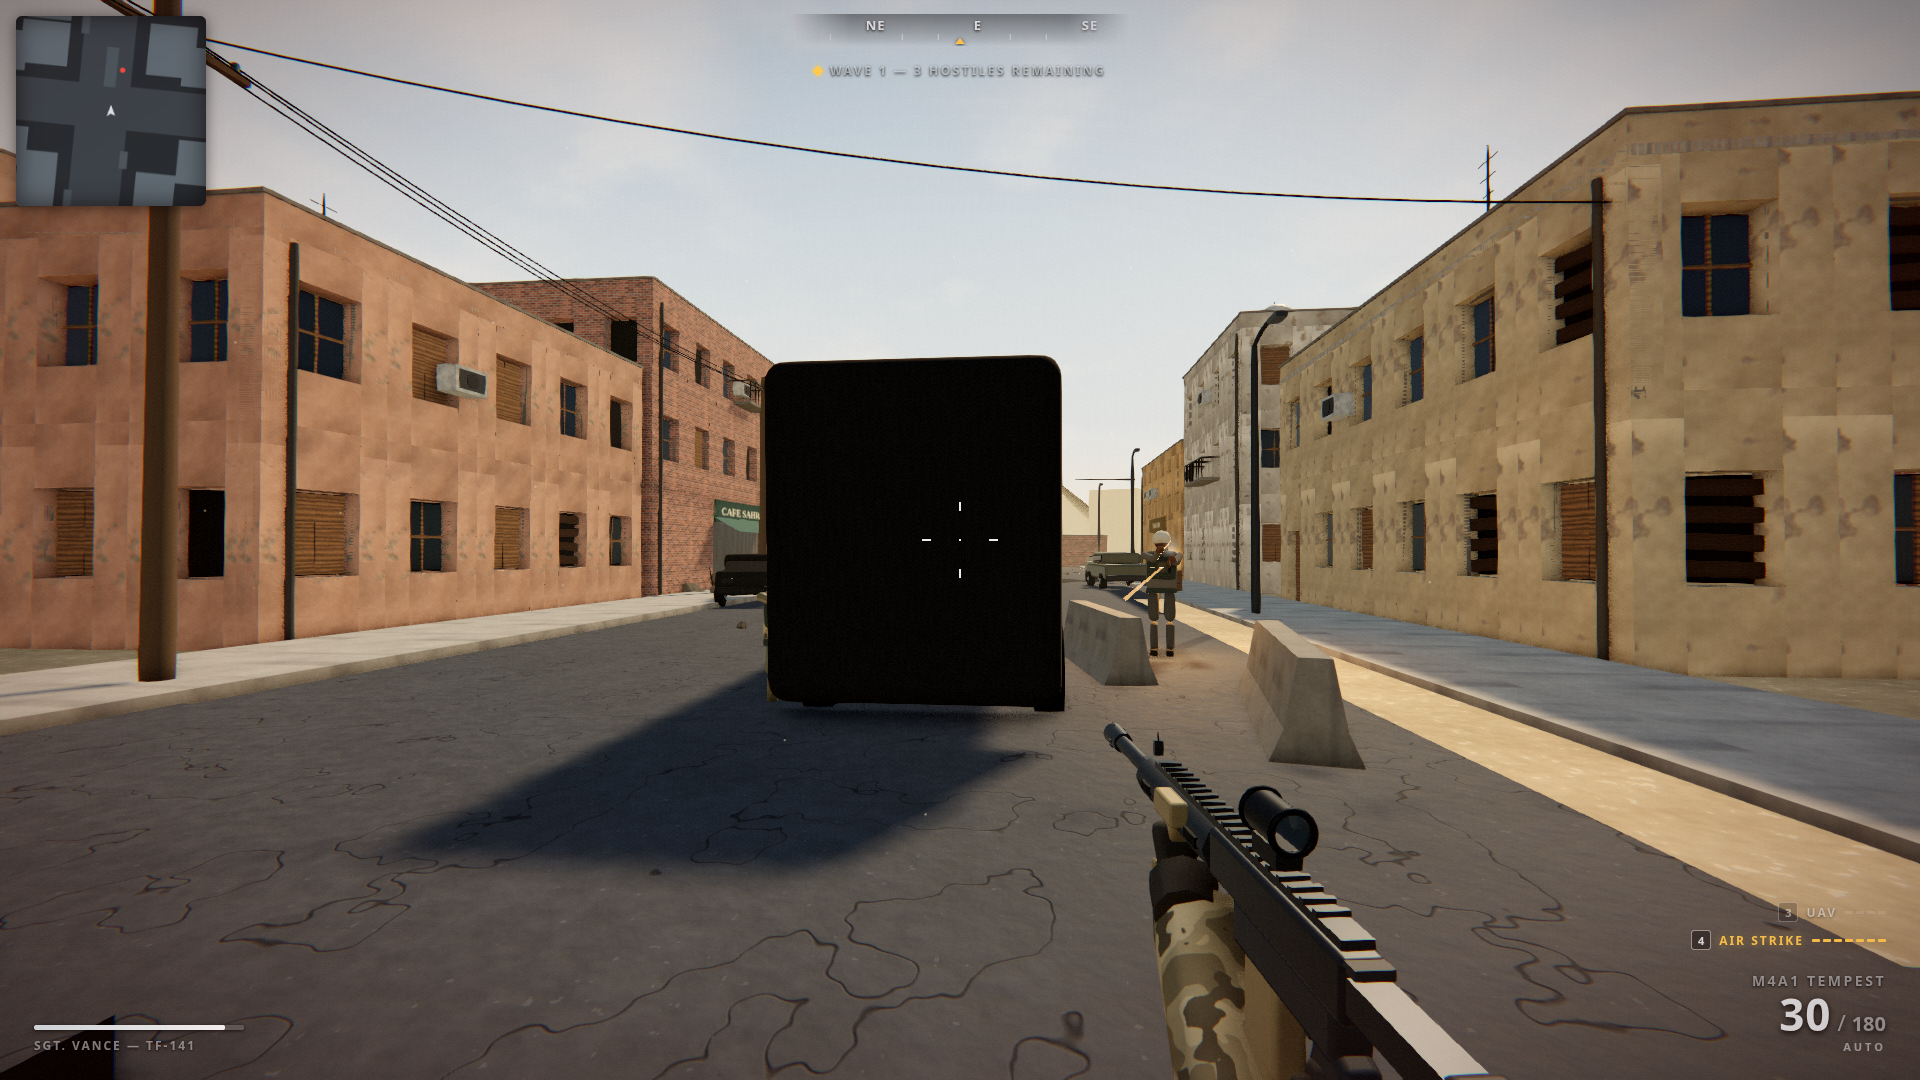
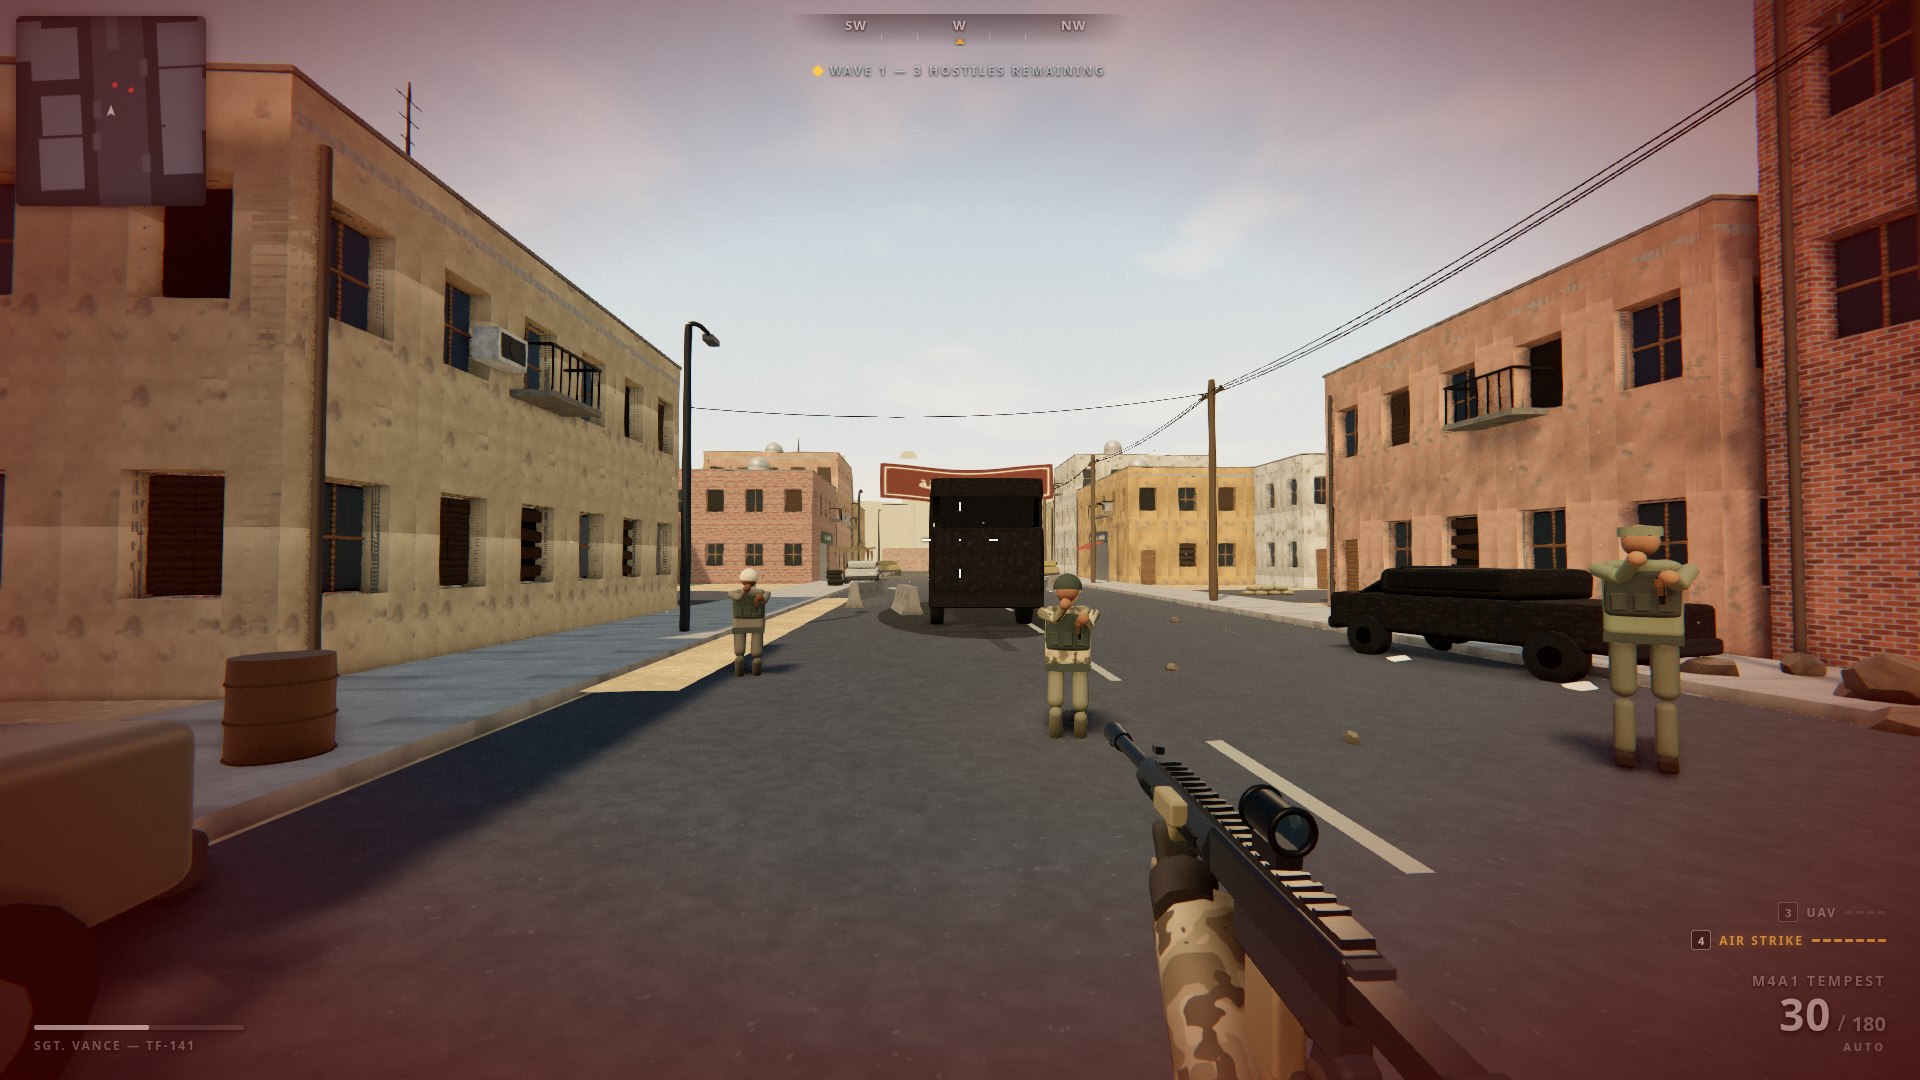
Polish pass: soldier proportions, burned-vehicle materials, contact shadows, UV variety, photo staging

diff --git a/src/ai/enemies.js b/src/ai/enemies.js
@@ -29,72 +29,96 @@ function buildSoldier(variant = 0) {
   torsoPivot.position.y = 1.02;
   root.add(torsoPivot);
 
-  const torso = new THREE.Mesh(new RoundedBoxGeometry(0.42, 0.56, 0.26, 2, 0.06), cloth);
+  const torso = new THREE.Mesh(new RoundedBoxGeometry(0.46, 0.56, 0.27, 2, 0.07), cloth);
   torso.position.y = 0.28;
   torsoPivot.add(torso);
-  // Chest rig / vest
-  const vest = new THREE.Mesh(new RoundedBoxGeometry(0.4, 0.34, 0.32, 2, 0.05), gear);
-  vest.position.y = 0.32;
+  // Shoulder bulk
+  for (const s of [-1, 1]) {
+    const pad = new THREE.Mesh(new RoundedBoxGeometry(0.14, 0.12, 0.24, 2, 0.04), cloth);
+    pad.position.set(s * 0.235, 0.5, 0);
+    torsoPivot.add(pad);
+  }
+  // Chest rig / vest with plate
+  const vest = new THREE.Mesh(new RoundedBoxGeometry(0.42, 0.38, 0.34, 2, 0.06), gear);
+  vest.position.y = 0.3;
   torsoPivot.add(vest);
   for (let i = 0; i < 3; i++) {
-    const pouch = new THREE.Mesh(new RoundedBoxGeometry(0.09, 0.13, 0.05, 1, 0.015), gear);
-    pouch.position.set(-0.12 + i * 0.12, 0.26, 0.18);
+    const pouch = new THREE.Mesh(new RoundedBoxGeometry(0.1, 0.14, 0.06, 1, 0.02), gear);
+    pouch.position.set(-0.13 + i * 0.13, 0.24, 0.195);
     torsoPivot.add(pouch);
   }
-  // Belt
-  const belt = new THREE.Mesh(new THREE.BoxGeometry(0.42, 0.07, 0.28), gear);
+  // Belt + canteen
+  const belt = new THREE.Mesh(new THREE.BoxGeometry(0.44, 0.08, 0.3), gear);
   belt.position.y = 0.0;
   torsoPivot.add(belt);
+  const canteen = new THREE.Mesh(new RoundedBoxGeometry(0.1, 0.14, 0.08, 1, 0.03), gear);
+  canteen.position.set(-0.2, -0.06, -0.1);
+  torsoPivot.add(canteen);
 
-  // -- head
+  // -- head (slightly oversized reads better at game distances)
   const headPivot = new THREE.Group();
-  headPivot.position.y = 0.6;
+  headPivot.position.y = 0.62;
   torsoPivot.add(headPivot);
-  const head = new THREE.Mesh(new THREE.SphereGeometry(0.115, 14, 12), skin);
-  head.position.y = 0.1;
-  head.scale.set(0.92, 1.05, 0.98);
+  const head = new THREE.Mesh(new THREE.SphereGeometry(0.13, 14, 12), skin);
+  head.position.y = 0.11;
+  head.scale.set(0.9, 1.08, 0.96);
   headPivot.add(head);
+  // Neck
+  const neck = new THREE.Mesh(new THREE.CylinderGeometry(0.06, 0.07, 0.08, 8), skin);
+  neck.position.y = 0.0;
+  headPivot.add(neck);
   if (variant % 3 === 0) {
-    // Helmet
-    const helm = new THREE.Mesh(new THREE.SphereGeometry(0.135, 14, 10, 0, Math.PI * 2, 0, Math.PI * 0.55), gear);
+    // Combat helmet with rim + strap
+    const helm = new THREE.Mesh(new THREE.SphereGeometry(0.155, 14, 10, 0, Math.PI * 2, 0, Math.PI * 0.52), gear);
     helm.position.y = 0.13;
+    helm.scale.set(1, 0.92, 1.05);
     headPivot.add(helm);
+    const rim = new THREE.Mesh(new THREE.TorusGeometry(0.148, 0.014, 6, 16), gear);
+    rim.rotation.x = Math.PI / 2;
+    rim.position.y = 0.135;
+    headPivot.add(rim);
+    const strap = new THREE.Mesh(new THREE.BoxGeometry(0.02, 0.14, 0.02), gear);
+    strap.position.set(0.115, 0.05, 0.02);
+    headPivot.add(strap);
   } else if (variant % 3 === 1) {
-    // Keffiyeh wrap
+    // Keffiyeh wrap + face scarf
     const wrapMat = new THREE.MeshStandardMaterial({ color: 0xb9ac92, roughness: 1 });
-    const wrap = new THREE.Mesh(new THREE.SphereGeometry(0.128, 12, 10, 0, Math.PI * 2, 0, Math.PI * 0.62), wrapMat);
+    const wrap = new THREE.Mesh(new THREE.SphereGeometry(0.145, 12, 10, 0, Math.PI * 2, 0, Math.PI * 0.62), wrapMat);
     wrap.position.y = 0.12;
     headPivot.add(wrap);
-    const tail = new THREE.Mesh(new THREE.BoxGeometry(0.1, 0.22, 0.03), wrapMat);
-    tail.position.set(0.04, -0.02, -0.12);
+    const scarf = new THREE.Mesh(new THREE.SphereGeometry(0.12, 10, 8, 0, Math.PI * 2, Math.PI * 0.5, Math.PI * 0.34), wrapMat);
+    scarf.position.set(0, 0.1, 0.03);
+    headPivot.add(scarf);
+    const tail = new THREE.Mesh(new THREE.BoxGeometry(0.11, 0.26, 0.03), wrapMat);
+    tail.position.set(0.05, -0.04, -0.13);
     tail.rotation.x = 0.25;
     headPivot.add(tail);
   } else {
     // Field cap
-    const cap = new THREE.Mesh(new THREE.CylinderGeometry(0.12, 0.125, 0.07, 12), cloth);
-    cap.position.y = 0.17;
+    const cap = new THREE.Mesh(new THREE.CylinderGeometry(0.13, 0.138, 0.08, 12), cloth);
+    cap.position.y = 0.19;
     headPivot.add(cap);
-    const brim = new THREE.Mesh(new THREE.BoxGeometry(0.12, 0.015, 0.09), cloth);
-    brim.position.set(0, 0.145, 0.14);
+    const brim = new THREE.Mesh(new THREE.BoxGeometry(0.13, 0.018, 0.1), cloth);
+    brim.position.set(0, 0.16, 0.16);
     headPivot.add(brim);
   }
 
-  // -- arms (posed holding rifle)
+  // -- arms (posed holding rifle, thicker so they read from the front)
   const mkArm = (side) => {
     const shoulder = new THREE.Group();
-    shoulder.position.set(side * 0.25, 0.5, 0);
+    shoulder.position.set(side * 0.27, 0.48, 0.02);
     torsoPivot.add(shoulder);
-    const upper = new THREE.Mesh(new THREE.CapsuleGeometry(0.055, 0.2, 4, 8), cloth);
+    const upper = new THREE.Mesh(new THREE.CapsuleGeometry(0.065, 0.2, 4, 8), cloth);
     upper.position.y = -0.14;
     shoulder.add(upper);
     const elbow = new THREE.Group();
-    elbow.position.y = -0.28;
+    elbow.position.y = -0.29;
     shoulder.add(elbow);
-    const fore = new THREE.Mesh(new THREE.CapsuleGeometry(0.045, 0.18, 4, 8), cloth);
-    fore.position.y = -0.12;
+    const fore = new THREE.Mesh(new THREE.CapsuleGeometry(0.052, 0.19, 4, 8), cloth);
+    fore.position.y = -0.13;
     elbow.add(fore);
-    const hand = new THREE.Mesh(new THREE.SphereGeometry(0.055, 8, 6), skin);
-    hand.position.y = -0.24;
+    const hand = new THREE.Mesh(new THREE.SphereGeometry(0.06, 8, 6), skin);
+    hand.position.y = -0.26;
     elbow.add(hand);
     return { shoulder, elbow };
   };
@@ -123,20 +147,21 @@ function buildSoldier(variant = 0) {
   const legR = mkLeg(1);
   const legL = mkLeg(-1);
 
-  // -- rifle in aim pose
+  // -- rifle in aim pose (slightly oversized so it reads at distance)
   const rifle = buildEnemyRifle();
-  rifle.position.set(0.1, 0.42, 0.32);
-  rifle.rotation.y = -0.06;
+  rifle.scale.setScalar(1.18);
+  rifle.position.set(0.09, 0.42, 0.34);
+  rifle.rotation.y = -0.08;
   torsoPivot.add(rifle);
   const muzzle = new THREE.Object3D();
   muzzle.position.set(0, 0.012, -0.52);
   rifle.add(muzzle);
 
   // Pose arms onto the rifle
-  armR.shoulder.rotation.x = -1.15; armR.shoulder.rotation.z = -0.25;
-  armR.elbow.rotation.x = -0.65;
-  armL.shoulder.rotation.x = -1.3; armL.shoulder.rotation.z = 0.55;
-  armL.elbow.rotation.x = -0.85;
+  armR.shoulder.rotation.x = -1.05; armR.shoulder.rotation.z = -0.35;
+  armR.elbow.rotation.x = -0.72;
+  armL.shoulder.rotation.x = -1.25; armL.shoulder.rotation.z = 0.6;
+  armL.elbow.rotation.x = -0.9;
 
   root.traverse((o) => { if (o.isMesh) { o.castShadow = true; o.receiveShadow = false; } });
 

diff --git a/src/world/buildings.js b/src/world/buildings.js
@@ -43,7 +43,10 @@ function collProxy(group, x, y, z, sx, sy, sz) {
 }
 
 class GeoBucket {
-  constructor() { this.map = new Map(); }
+  constructor(uvOffset = [0, 0]) {
+    this.map = new Map();
+    this.uvOffset = uvOffset;
+  }
   add(mat, geo, x, y, z, ry = 0, rx = 0, rz = 0) {
     const g = geo.clone();
     if (rx) g.rotateX(rx);
@@ -56,7 +59,14 @@ class GeoBucket {
   box(mat, x, y, z, sx, sy, sz, ry = 0) {
     const geo = new THREE.BoxGeometry(sx, sy, sz);
     const k = uvScaleFor(mat);
-    if (k) scaleBoxUVs(geo, sx, sy, sz, k[0], k[1]);
+    if (k) {
+      scaleBoxUVs(geo, sx, sy, sz, k[0], k[1]);
+      // Per-building random UV offset breaks visible tiling repetition
+      const uv = geo.attributes.uv;
+      for (let i = 0; i < uv.count; i++) {
+        uv.setXY(i, uv.getX(i) + this.uvOffset[0], uv.getY(i) + this.uvOffset[1]);
+      }
+    }
     this.add(mat, geo, x, y, z, ry);
   }
   build(group) {
@@ -88,13 +98,14 @@ export function buildBuilding(opts = {}) {
   const H = GROUND_H + (stories - 1) * STORY_H;
 
   const group = new THREE.Group();
-  const B = new GeoBucket();
+  const uvOff = [r() * 7, r() * 7];
+  const B = new GeoBucket(uvOff);
   const wallT = 0.4;
 
   /* Facade builder for one side. Writes untransformed geometry into `sub`;
      the placement wrapper rotates/translates it into position. */
   const facade = (faceW, hasStorefront) => {
-    const sub = new GeoBucket();
+    const sub = new GeoBucket(uvOff);
     const winW = 1.15, winH = 1.5;
     const bays = Math.max(1, Math.round(faceW / 2.35));
     const bayW = faceW / bays;
@@ -133,16 +144,16 @@ export function buildBuilding(opts = {}) {
           // Window: recessed interior + glass + frame + sill
           const state = r();
           sub.box(lib.darkInterior, bx, sillY + winH / 2, -0.16, winW - 0.06, winH - 0.06, 0.02);
-          if (state < 0.45) {
+          if (state < 0.62) {
             sub.box(lib.glassWindow, bx, sillY + winH / 2, -0.12, winW - 0.14, winH - 0.14, 0.02);
             // Cross mullion
             sub.box(lib.wood, bx, sillY + winH / 2, -0.1, winW - 0.1, 0.05, 0.04);
             sub.box(lib.wood, bx, sillY + winH / 2, -0.1, 0.05, winH - 0.1, 0.04);
-          } else if (state < 0.75) {
+          } else if (state < 0.82) {
             // Closed wooden shutters
-            sub.box(lib.wood, bx - winW / 4 + 0.02, sillY + winH / 2, -0.08, winW / 2 - 0.05, winH - 0.1, 0.04);
-            sub.box(lib.wood, bx + winW / 4 - 0.02, sillY + winH / 2, -0.08, winW / 2 - 0.05, winH - 0.1, 0.04);
-          } else if (state < 0.88) {
+            sub.box(lib.woodDark, bx - winW / 4 + 0.02, sillY + winH / 2, -0.08, winW / 2 - 0.05, winH - 0.1, 0.04);
+            sub.box(lib.woodDark, bx + winW / 4 - 0.02, sillY + winH / 2, -0.08, winW / 2 - 0.05, winH - 0.1, 0.04);
+          } else if (state < 0.92) {
             // Boarded planks
             for (let p = 0; p < 4; p++) {
               sub.add(lib.woodDark, new THREE.BoxGeometry(winW + 0.15, 0.22, 0.04),

diff --git a/src/photo/photomode.js b/src/photo/photomode.js
@@ -76,16 +76,16 @@ const SCENARIOS = {
     };
   },
 
-  /* Air strike from a closer angle, strike line on the north road. */
+  /* Air strike sweeping across the street, viewed from the market sidewalk. */
   airstrike2: (g) => {
     g.deployForPhoto();
-    g.player.spawnAt(new THREE.Vector3(-2, 0, 7.5), -0.95);
-    g.player.pitch = 0.2;
+    g.player.spawnAt(new THREE.Vector3(-22, 0, 6.4), -Math.PI / 2 + 0.22);
+    g.player.pitch = 0.12;
     g.enemies.frozen = true;
     return {
       capture: 360,
       onFrame: (f) => {
-        if (f === 30) g.airstrike.confirmTarget(new THREE.Vector3(22, 0, -13));
+        if (f === 30) g.airstrike.confirmTarget(new THREE.Vector3(4, 0, -1));
       },
     };
   },
@@ -93,15 +93,20 @@ const SCENARIOS = {
   /* Soldier close-up for character review (sun on their faces). */
   enemies: (g) => {
     g.deployForPhoto();
-    g.player.spawnAt(new THREE.Vector3(19, 0, 4.2), Math.PI / 2 - 0.14);
-    g.player.pitch = 0.01;
+    g.player.spawnAt(new THREE.Vector3(30.5, 0, 2.5), Math.PI / 2 - 0.05);
+    g.player.pitch = 0.005;
     g.enemies.frozen = true;
-    const a = g.enemies.spawnOne(new THREE.Vector3(8, 0, -0.5), 0);
-    const b = g.enemies.spawnOne(new THREE.Vector3(4.5, 0, 3.4), 1);
-    const c = g.enemies.spawnOne(new THREE.Vector3(11.5, 0, 4.2), 2);
+    const a = g.enemies.spawnOne(new THREE.Vector3(24, 0, 1.2), 0);
+    const b = g.enemies.spawnOne(new THREE.Vector3(20.5, 0, 5), 1);
+    const c = g.enemies.spawnOne(new THREE.Vector3(25.5, 0, -2.8), 2);
     a.enterCombat(); b.enterCombat(); c.enterCombat();
     b.crouchTarget = 1;
-    return { capture: 140 };
+    return {
+      capture: 140,
+      onFrame: (f) => {
+        if (f === 137) a._fireAt(g.player.eyePos, 7);
+      },
+    };
   },
 
   /* Targeting tablet UI. */

diff --git a/src/world/textures.js b/src/world/textures.js
@@ -124,11 +124,13 @@ export function asphaltSet(size = 1024) {
   const fine = makeFBM(size, 52, 3, 12);
   const crackN = makeFBM(size, 8, 4, 13);
   const stainN = makeFBM(size, 3, 3, 14);
+  const crackMask = makeFBM(size, 2, 2, 15);
 
   const crackAt = (u, v) => {
+    if (crackMask(u, v) < 0.52) return 0;        // cracks only in worn patches
     const w = crackN(u, v);
     const ridge = Math.abs(w - 0.5) * 2;         // 0 at "crack lines"
-    return ridge < 0.016 ? (1 - ridge / 0.016) : 0;
+    return ridge < 0.014 ? (1 - ridge / 0.014) : 0;
   };
 
   const albedo = paint(size, (u, v) => {
@@ -247,10 +249,10 @@ export function dirtSet(size = 1024) {
   const fine = makeFBM(size, 44, 3, 52);
   const albedo = paint(size, (u, v) => {
     const n = fbm(u, v), f = fine(u, v);
-    let r = 152 + n * 42 + (f - 0.5) * 26;
-    let g = 128 + n * 36 + (f - 0.5) * 22;
-    let b = 96 + n * 28 + (f - 0.5) * 18;
-    if (f > 0.76) { r += 24; g += 22; b += 20; } // pebbles
+    let r = 132 + n * 36 + (f - 0.5) * 24;
+    let g = 113 + n * 31 + (f - 0.5) * 20;
+    let b = 88 + n * 25 + (f - 0.5) * 17;
+    if (f > 0.76) { r += 22; g += 20; b += 18; } // pebbles
     return [r, g, b];
   });
   const normal = normalFromHeight(size, (u, v) => fbm(u, v) * 0.6 + fine(u, v) * 0.35, 2.0);

diff --git a/src/weapons/weapons.js b/src/weapons/weapons.js
@@ -174,9 +174,11 @@ export class WeaponSystem {
     if (this.shotCount % def.tracerEvery === 0 && bestT > 4) {
       this.tracers.fire(muzzlePos, point, 340);
     }
-    // Casing
-    const right = new THREE.Vector3(1, 0.2, 0).applyQuaternion(this.camera.getWorldQuaternion(this._tmpQ));
-    this.casings.eject(this.vm.ejectPort.getWorldPosition(new THREE.Vector3()), right);
+    // Casing — offset away from the lens so brass never fills the screen
+    const camQ = this.camera.getWorldQuaternion(this._tmpQ);
+    const right = new THREE.Vector3(1, -0.15, 0).applyQuaternion(camQ).normalize();
+    const ejectPos = this.vm.ejectPort.getWorldPosition(new THREE.Vector3()).addScaledVector(right, 0.06);
+    this.casings.eject(ejectPos, right);
     this.audio.gunshot({ vol: 1, caliber: def.caliber });
     this.audio.casing();
 

diff --git a/src/main.js b/src/main.js
@@ -333,12 +333,12 @@ class Game {
     const t = this.time;
 
     if (this.state === 'menu') {
-      // Idle drone camera drifting over the street
+      // Idle drone camera drifting over the clear street corridor
       this.menuCamT += dt;
       const a = this.menuCamT * 0.045;
-      this.camera.position.set(-40 + Math.sin(a) * 12, 9 + Math.sin(a * 0.7) * 1.5, 16 + Math.cos(a * 0.8) * 5);
-      this.camera.lookAt(20, 3, -4);
-      this.camera.rotation.z += Math.sin(this.menuCamT * 0.2) * 0.01;
+      this.camera.position.set(-32 + Math.sin(a) * 7, 10.5 + Math.sin(a * 0.7) * 0.8, Math.cos(a * 0.6) * 2);
+      this.camera.lookAt(42, 1.5, -1);
+      this.camera.rotation.z += Math.sin(this.menuCamT * 0.2) * 0.008;
     }
 
     const playing = this.state === 'playing';

diff --git a/src/fx/explosions.js b/src/fx/explosions.js
@@ -81,8 +81,8 @@ export class ExplosionSystem {
     // 6. Debris chunks
     const nDeb = big ? 13 : 7;
     for (let i = 0; i < nDeb; i++) {
-      const v = new THREE.Vector3((Math.random() - 0.5) * 14, 5 + Math.random() * 11, (Math.random() - 0.5) * 14);
-      fx.debris.spawn(pos.clone().add(new THREE.Vector3(0, 0.5, 0)), v, 0.07 + Math.random() * 0.16, 2.6 + Math.random() * 1.4);
+      const v = new THREE.Vector3((Math.random() - 0.5) * 13, 4 + Math.random() * 9, (Math.random() - 0.5) * 13);
+      fx.debris.spawn(pos.clone().add(new THREE.Vector3(0, 0.5, 0)), v, 0.045 + Math.random() * 0.09, 2.6 + Math.random() * 1.4);
     }
 
     // 7. Shockwave ring

diff --git a/src/world/props.js b/src/world/props.js
@@ -84,7 +84,7 @@ export function buildCar({ burned = false, color = null, pickup = false } = {}) 
   const g = new THREE.Group();
   const col = color ?? CAR_COLORS[Math.floor(rng() * CAR_COLORS.length)];
   const bodyMat = burned
-    ? lib.charred.clone()
+    ? burnedMetalMat()
     : new THREE.MeshStandardMaterial({ color: col, roughness: 0.5, metalness: 0.6, envMapIntensity: 0.9 });
   if (!burned) {
     // dusty desaturation
